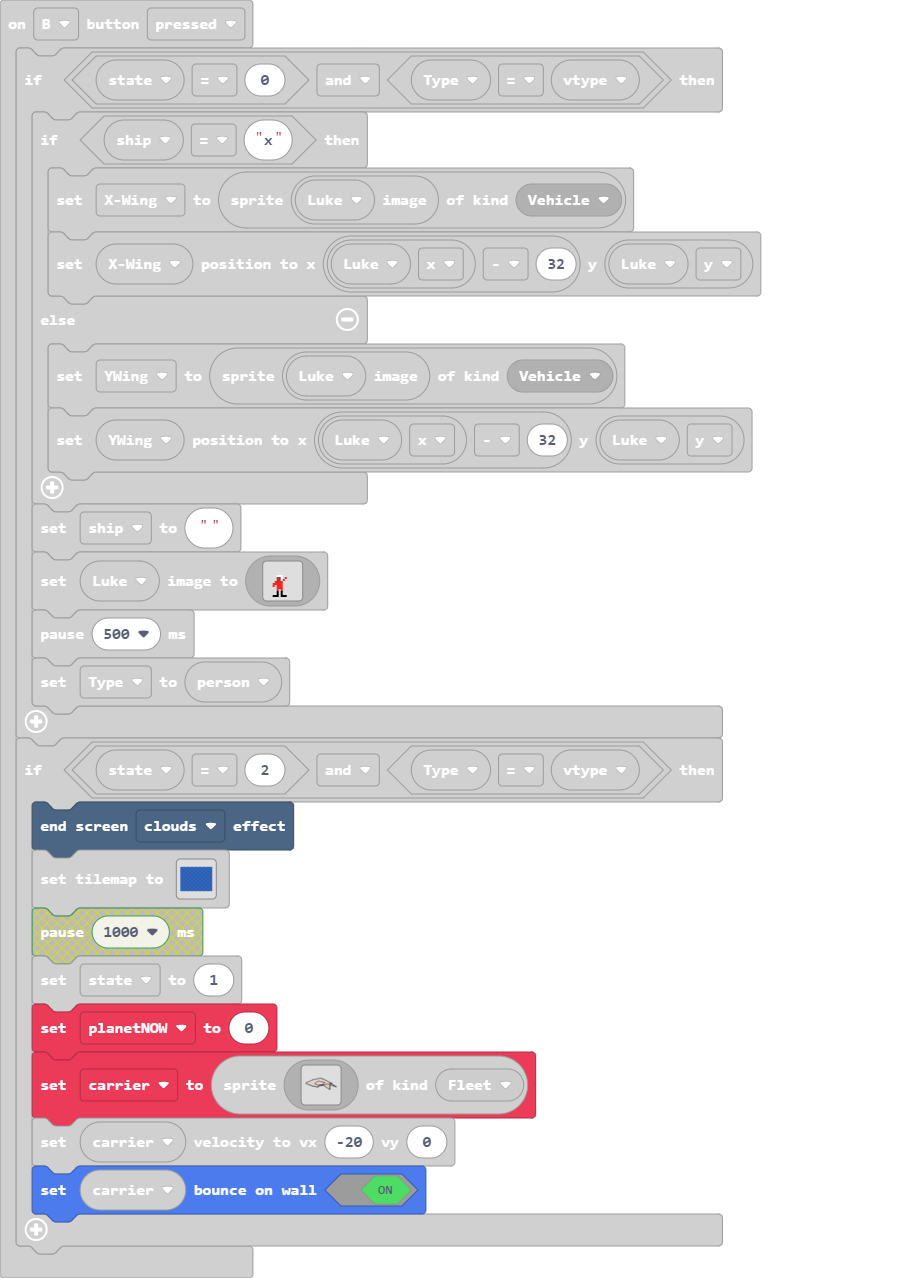
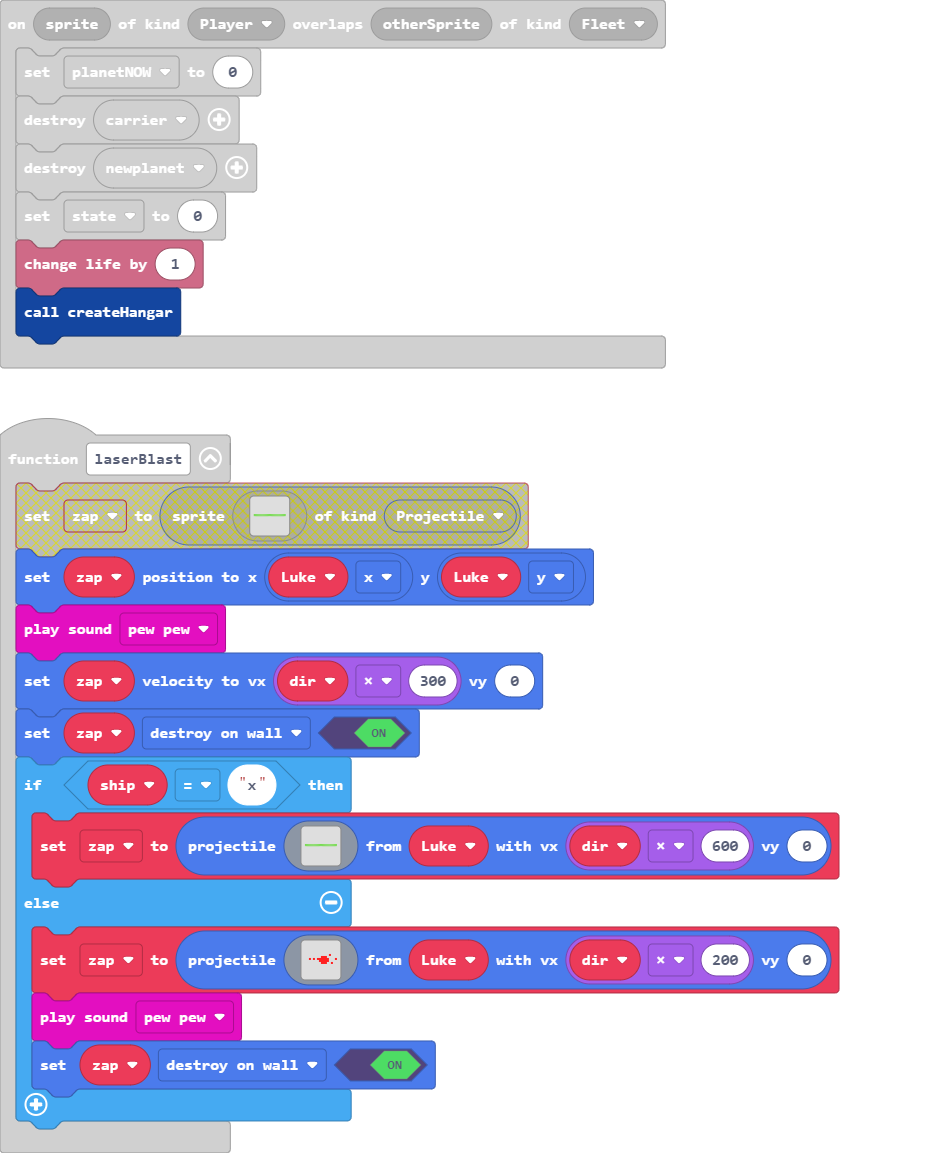
Update main.blocks, main.ts, images.g.jres, images.g.ts

diff --git a/main.ts b/main.ts
@@ -81,6 +81,7 @@ sprites.onOverlap(SpriteKind.Player, SpriteKind.Fleet, function (sprite, otherSp
     carrier.destroy()
     newplanet.destroy()
     state = 0
+    info.changeLifeBy(1)
     createHangar()
 })
 sprites.onOverlap(SpriteKind.Player, SpriteKind.orb, function (sprite, otherSprite) {
@@ -118,11 +119,17 @@ controller.right.onEvent(ControllerButtonEvent.Pressed, function () {
     }
 })
 function laserBlast () {
-    zap = sprites.create(assets.image`laser`, SpriteKind.Projectile)
-    zap.setPosition(Luke.x, Luke.y)
-    music.pewPew.play()
-    zap.setVelocity(dir * 300, 0)
-    zap.setFlag(SpriteFlag.DestroyOnWall, true)
+    if (ship == "x") {
+        zap = sprites.createProjectileFromSprite(assets.image`laser`, Luke, dir * 600, 0)
+        zap.setPosition(Luke.x, Luke.y)
+        music.pewPew.play()
+        zap.setVelocity(dir * 300, 0)
+        zap.setFlag(SpriteFlag.DestroyOnWall, true)
+    } else {
+        zap = sprites.createProjectileFromSprite(assets.image`myImage1`, Luke, dir * 200, 0)
+        music.pewPew.play()
+        zap.setFlag(SpriteFlag.DestroyOnWall, true)
+    }
 }
 sprites.onOverlap(SpriteKind.Player, SpriteKind.ast, function (sprite, otherSprite) {
     otherSprite.destroy(effects.fire, 500)

diff --git a/images.g.ts b/images.g.ts
@@ -494,6 +494,15 @@ f 6 6 6 6 6 f f 6 6 6 f f . . .
 ............................................................
 ............................................................
 `;
+            case "image17":
+            case "myImage1":return img`
+. . . . . . . . . . . . 2 . . . 
+. . . . . . . . 2 2 2 . . . . . 
+. . 2 . 2 . 2 2 2 2 2 2 . . . 2 
+. . . . . . . 2 2 2 2 2 . . . . 
+. . . . . . . . 2 2 2 . . 2 . . 
+. . . . . . . . . . . . . . . . 
+`;
         }
         return null;
     })
